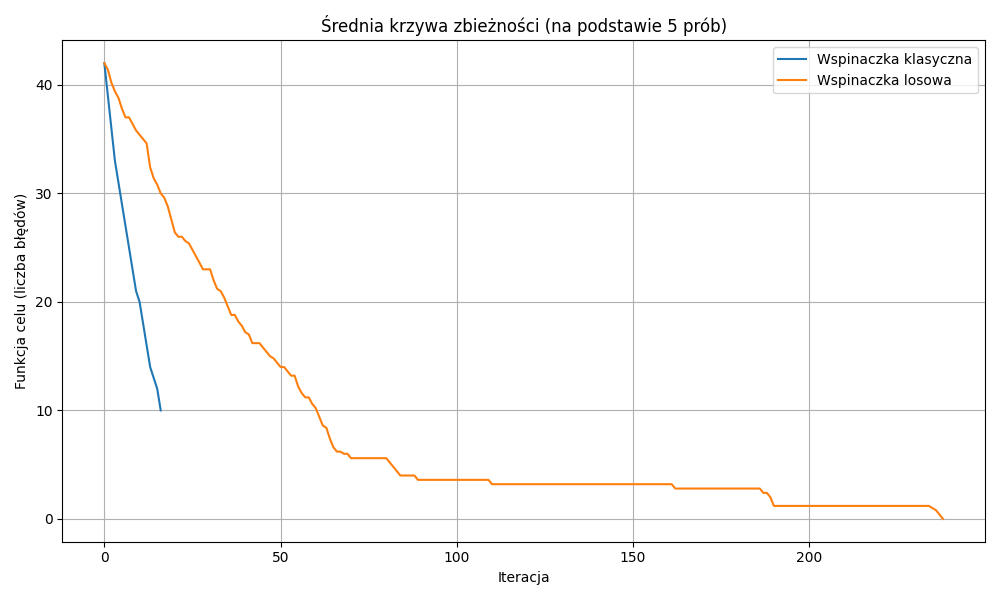
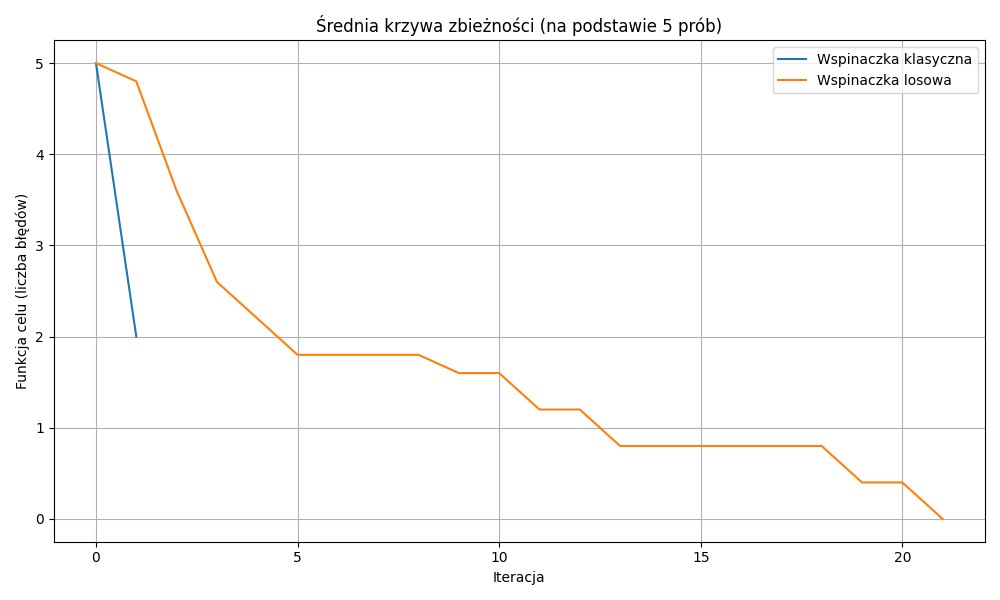
.

diff --git a/main.py b/main.py
@@ -1,11 +1,10 @@
 import sys
 from podstawaNono import parsuj
-from podstawaNono import rozwiaz
 from podstawaNono import drukuj_siatke
 
 from funkcjaCelu import generuj_sasiedztwo
 from funkcjaCelu import generuj_losowa_siatke
-from funkcjaCelu import porownaj_siatki
+
 
 from algorytmy import pelny_przeglad
 from algorytmy import klasyczna_wspinaczka
@@ -14,6 +13,9 @@ from algorytmy import losowa_wspinaczka
 from wyzarzanie import algorytm_symulowanego_wyzarzania
 
 from porowanie import  porownaj_metody
+
+from Cel import  funkcja_celu
+
 
 from tabu import algorytm_tabu
 from zbieznosc import generuj_wykres_zbieznosci
@@ -52,32 +54,30 @@ def main():
     wiersze = parsuj(wiersze_raw)
 
     siatka = [[0] * szerokosc for _ in range(wysokosc)]
-    rozwiaz(wiersze, kolumny, siatka)
-    print("Rozwiązanie początkowe (idealne):")
-    drukuj_siatke(siatka)
-
-    siatka_wzor = [wiersz.copy() for wiersz in siatka]
     siatka_start = generuj_losowa_siatke(wysokosc, szerokosc)
 
 #Losowanie
     print("\nLosowa siatka:")
     siatka_losowa = generuj_losowa_siatke(wysokosc, szerokosc)
     drukuj_siatke(siatka_losowa)
-    roznica = porownaj_siatki(siatka_losowa, siatka_wzor)
-    print(f"Różnica względem wzorca: {roznica} pól")
+    roznica = funkcja_celu(siatka_losowa, wiersze, kolumny)
+    print(f"Błędy w wierszach i kolumnach: {roznica}")
 
 
-#Najlepszy sasiad zmiana
+# Najlepszy sasiad zmiana
     print("\nNajlepsze sąsiedztwo:")
-    sasiedztwa = generuj_sasiedztwo(siatka)
-    najlepszego_sasiedztwa = min(sasiedztwa, key=lambda s: porownaj_siatki(s, siatka_wzor))
+    sasiedztwa = generuj_sasiedztwo(siatka_losowa)
+    najlepszego_sasiedztwa = min(sasiedztwa, key=lambda s: funkcja_celu(s, wiersze, kolumny))
     drukuj_siatke(najlepszego_sasiedztwa)
-    print(f"Różnica względem wzorca: {porownaj_siatki(najlepszego_sasiedztwa, siatka_wzor)} pól")
+    print(f"Błędy w wierszach i kolumnach: {funkcja_celu(najlepszego_sasiedztwa, wiersze, kolumny)}")
 
 #Pelen przeglad
-    najlepsza, bledy = pelny_przeglad(wysokosc, szerokosc, siatka_wzor)
+    print("\nPełny przegląd:")
+    najlepsza, bledy, czas, iteracje = pelny_przeglad(wysokosc, szerokosc, wiersze, kolumny)
     drukuj_siatke(najlepsza)
-    print(f"Różnica względem wzorca: {bledy} pól")
+    print(f"Czas przeszukiwania: {czas:.4f} sekundy")
+    print(f"Liczba iteracji: {iteracje}")
+    print(f"Błędy w wierszach i kolumnach: {bledy}")
 
 #Klasyczny polegajacy na prrawidlowej funkcji celu która Pan zatwierdził
     print("\nKlasyczny wspinaczkowy (funkcja_celu_dzialajaca):")
@@ -93,26 +93,29 @@ def main():
 
 #Algorytm tabu z cofnieciem
     wynik_tabu, blad_tabu, iteracje_tabu, czas_tabu, historia = algorytm_tabu(
-        siatka_start, siatka_wzor, max_iteracje=1000
+        siatka_start, wiersze, kolumny, max_iteracje=1000, tabu_size=30
     )
+
     print("Tabu (bez ograniczeń):")
     drukuj_siatke(wynik_tabu)
-    print(f"Błędy: {blad_tabu}, Iteracje: {iteracje_tabu}, Czas: {czas_tabu:.4f}s")
+    print(f"Błędy w wierszach i kolumnach: {blad_tabu}, Iteracje: {iteracje_tabu}, Czas: {czas_tabu:.4f}s")
 
     if len(historia) > 1:
         print("\nCofnięcie o 1 krok:")
         drukuj_siatke(historia[-2])
+        print(f"Błędy w wierszach i kolumnach: {funkcja_celu(historia[-2], wiersze, kolumny)}")
 
 
 
 
 #Algorytm wyzarzania
     wynik_sa, blad_sa, iteracje_sa, czas_sa = algorytm_symulowanego_wyzarzania(
-        siatka_start, siatka_wzor, T_start=100.0, T_koniec=0.1, alfa=0.95)
+        siatka_start, wiersze, kolumny, T_start=100.0, T_koniec=0.1, alfa=0.95
+    )
 
     print("Symulowane wyżarzanie:")
     drukuj_siatke(wynik_sa)
-    print(f"Błędy: {blad_sa}, Iteracje: {iteracje_sa}, Czas: {czas_sa:.4f}s")
+    print(f"Błędy w wierszach i kolumnach: {blad_sa}, Iteracje: {iteracje_sa}, Czas: {czas_sa:.4f}s")
 
 
 

diff --git a/podstawaNono.py b/podstawaNono.py
@@ -1,58 +1,6 @@
-
-
-
 def parsuj(s: str) -> list[list[int]]:
     return [list(map(int, czesc.split(','))) for czesc in s[1:-1].split('","')]#map zwraca obiekt
 
-
-
-
-
-def permutacje(wartosci, wiersz, przesuniecie=0):
-    if not wartosci:
-        yield []
-        return
-    aktualna, *reszta = wartosci
-    maks_start = len(wiersz) - sum(reszta) - len(reszta) - aktualna + 1
-    for i in range(maks_start):
-        if 1 in wiersz[i:i + aktualna]:
-            continue
-        prefix = [1] * (i + przesuniecie) + [2] * aktualna
-        for sufix in permutacje(reszta, wiersz[i + aktualna + 1:], 1):
-            yield prefix + sufix
-
-
-
-
-
-def rozwiaz_wiersz(wartosci, wiersz):
-    dlugosc = len(wiersz)
-    kandydaci = [
-        p + [1] * (dlugosc - len(p))
-        for p in permutacje(wartosci, wiersz)
-        if all(r == 0 or r == v for r, v in zip(wiersz, p + [1] * (dlugosc - len(p))))
-    ]
-    if not kandydaci:
-        return wiersz
-    return [kandydaci[0][i] if all(k[i] == kandydaci[0][i] for k in kandydaci) else 0 for i in range(dlugosc)]
-
-def rozwiaz(wiersze_wartosci, kolumny_wartosci, siatka):
-    zmiana = True
-    wysokosc, szerokosc = len(siatka), len(siatka[0])
-    while zmiana:
-        zmiana = False
-        for y, wartosci_wiersza in enumerate(wiersze_wartosci):
-            wiersz = rozwiaz_wiersz(wartosci_wiersza, siatka[y])
-            for x, komorka in enumerate(wiersz):
-                if komorka and siatka[y][x] != komorka:
-                    siatka[y][x] = komorka
-                    zmiana = True
-        for x, wartosci_kolumny in enumerate(kolumny_wartosci):
-            kolumna = rozwiaz_wiersz(wartosci_kolumny, [siatka[y][x] for y in range(wysokosc)])
-            for y, komorka in enumerate(kolumna):
-                if komorka and siatka[y][x] != komorka:
-                    siatka[y][x] = komorka
-                    zmiana = True
 
 def drukuj_siatke(siatka):
         for wiersz in siatka:

diff --git a/tabu.py b/tabu.py
@@ -1,16 +1,18 @@
 import time
 import copy
-from funkcjaCelu import porownaj_siatki
+
 from funkcjaCelu import generuj_sasiedztwo
+from Cel import funkcja_celu
 
 
 
 
-def algorytm_tabu(siatka_start, siatka_wzor, max_iteracje=None):
+def algorytm_tabu(siatka_start, wiersze, kolumny, max_iteracje=None, tabu_size=50):
+
     start_time = time.time()
     aktualna = copy.deepcopy(siatka_start)
     najlepsza = copy.deepcopy(aktualna)
-    blad_najlepszy = porownaj_siatki(najlepsza, siatka_wzor)
+    blad_najlepszy = funkcja_celu(najlepsza, wiersze, kolumny)
     tabu = [copy.deepcopy(aktualna)]
     historia = [copy.deepcopy(aktualna)]
 
@@ -29,12 +31,17 @@ def algorytm_tabu(siatka_start, siatka_wzor, max_iteracje=None):
             else:
                 break
 
-        najlepszy_kandydat = min(sasiedzi_dopuszczalni, key=lambda s: porownaj_siatki(s, siatka_wzor))
-        blad_kandydata = porownaj_siatki(najlepszy_kandydat, siatka_wzor)
+        najlepszy_kandydat = min(
+            sasiedzi_dopuszczalni,
+            key=lambda s: funkcja_celu(s, wiersze, kolumny)
+        )
+        blad_kandydata = funkcja_celu(najlepszy_kandydat, wiersze, kolumny)
 
         aktualna = najlepszy_kandydat
         historia.append(copy.deepcopy(aktualna))
         tabu.append(copy.deepcopy(aktualna))
+        if len(tabu) > tabu_size:
+            tabu.pop(0)
 
         if blad_kandydata < blad_najlepszy:
             najlepsza = copy.deepcopy(najlepszy_kandydat)
@@ -42,7 +49,6 @@ def algorytm_tabu(siatka_start, siatka_wzor, max_iteracje=None):
 
         if blad_najlepszy == 0:
             break
-
 
         if max_iteracje is not None and iteracja >= max_iteracje:
             print("Zatrzymano algorytm po osiągnięciu limitu iteracji.")

diff --git a/wyzarzanie.py b/wyzarzanie.py
@@ -2,14 +2,14 @@ import math
 import time
 import random
 import copy
-from funkcjaCelu import porownaj_siatki
+from Cel import funkcja_celu
 from funkcjaCelu import generuj_sasiedztwo
 
-def algorytm_symulowanego_wyzarzania(siatka_start, siatka_wzor,
+def algorytm_symulowanego_wyzarzania(siatka_start, wiersze, kolumny,
                                       T_start=100.0, T_koniec=0.1, alfa=0.95):
     start_time = time.time()
     aktualna = copy.deepcopy(siatka_start)
-    blad_aktualny = porownaj_siatki(aktualna, siatka_wzor)
+    blad_aktualny = funkcja_celu(aktualna, wiersze, kolumny)
     najlepsza = copy.deepcopy(aktualna)
     blad_najlepszy = blad_aktualny
 
@@ -20,7 +20,7 @@ def algorytm_symulowanego_wyzarzania(siatka_start, siatka_wzor,
         iteracja += 1
         sasiedzi = generuj_sasiedztwo(aktualna)
         kandydat = random.choice(sasiedzi)
-        blad_kandydata = porownaj_siatki(kandydat, siatka_wzor)
+        blad_kandydata = funkcja_celu(kandydat, wiersze, kolumny)
 
         delta = blad_kandydata - blad_aktualny
 

diff --git a/algorytmy.py b/algorytmy.py
@@ -4,13 +4,12 @@ import copy
 import random
 
 
-from funkcjaCelu import porownaj_siatki
+
 from funkcjaCelu import generuj_sasiedztwo
 from Cel import funkcja_celu
 
+def pelny_przeglad(wysokosc, szerokosc, wiersze, kolumny):
 
-#Pelen przeglad
-def pelny_przeglad(wysokosc, szerokosc, siatka_wzor):
     start_time = time.time()
     licznik = 0
 
@@ -22,13 +21,13 @@ def pelny_przeglad(wysokosc, szerokosc, siatka_wzor):
             for y in range(wysokosc)
         ]
 
-        bledy = porownaj_siatki(siatka, siatka_wzor)
+        bledy = funkcja_celu(siatka, wiersze, kolumny)
 
         if bledy == 0:
             czas = time.time() - start_time
-            print(f"\n Znaleziono idealne rozwiązanie w próbie nr {licznik}")
-            print(f" Czas przeszukiwania: {czas:.4f} sekundy")
-            return siatka, 0
+            return siatka, bledy, czas, licznik
+
+
 
 
 

diff --git a/funkcjaCelu.py b/funkcjaCelu.py
@@ -1,14 +1,14 @@
 import copy
 import random
 
-
-def porownaj_siatki(s1, s2):
-    bledy = 0
-    for y in range(len(s1)):
-        for x in range(len(s1[0])):
-            if s1[y][x] != s2[y][x]:
-                bledy += 1
-    return bledy
+#
+# def porownaj_siatki(s1, s2):
+#     bledy = 0
+#     for y in range(len(s1)):
+#         for x in range(len(s1[0])):
+#             if s1[y][x] != s2[y][x]:
+#                 bledy += 1
+#     return bledy
 
 
 #Stara wersja:
